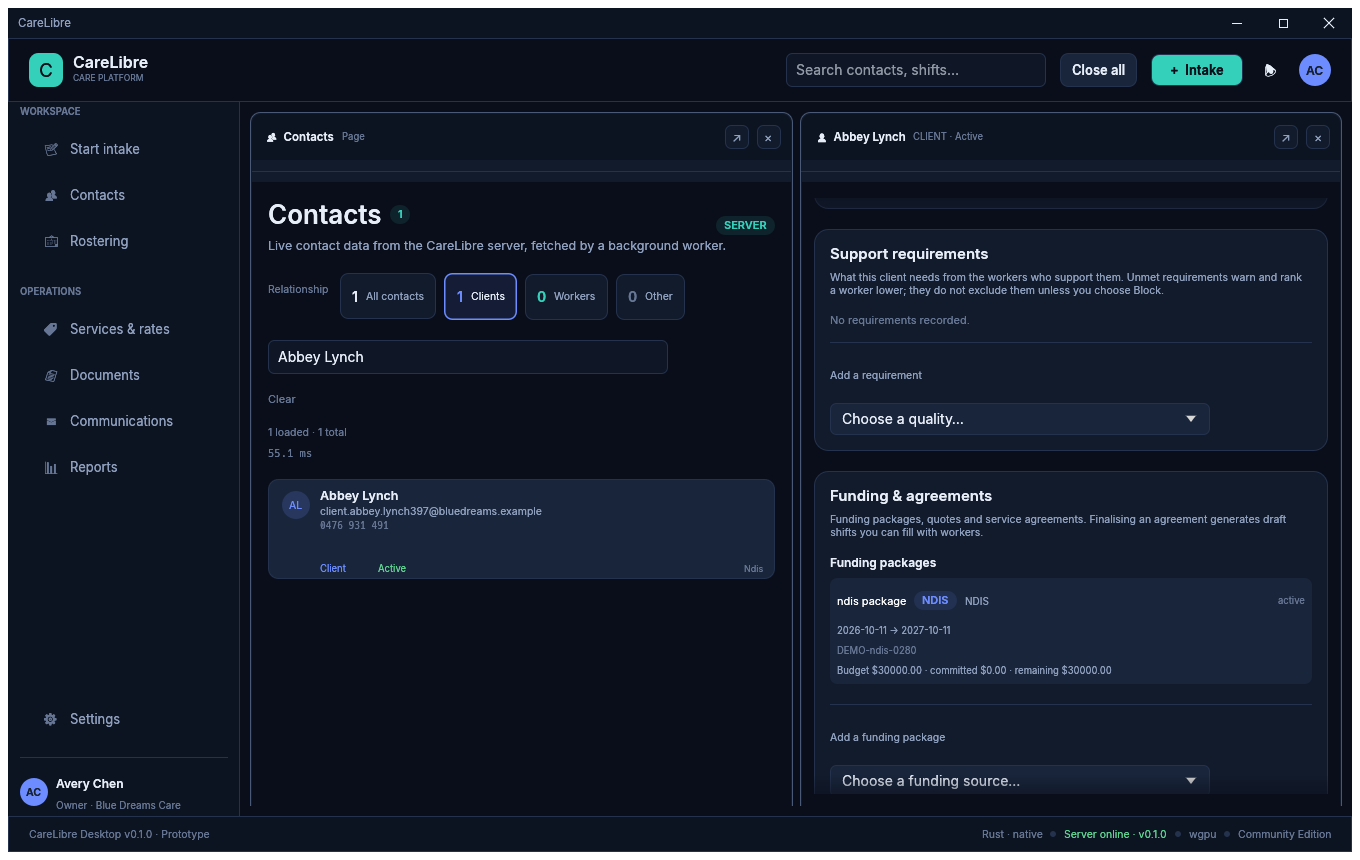
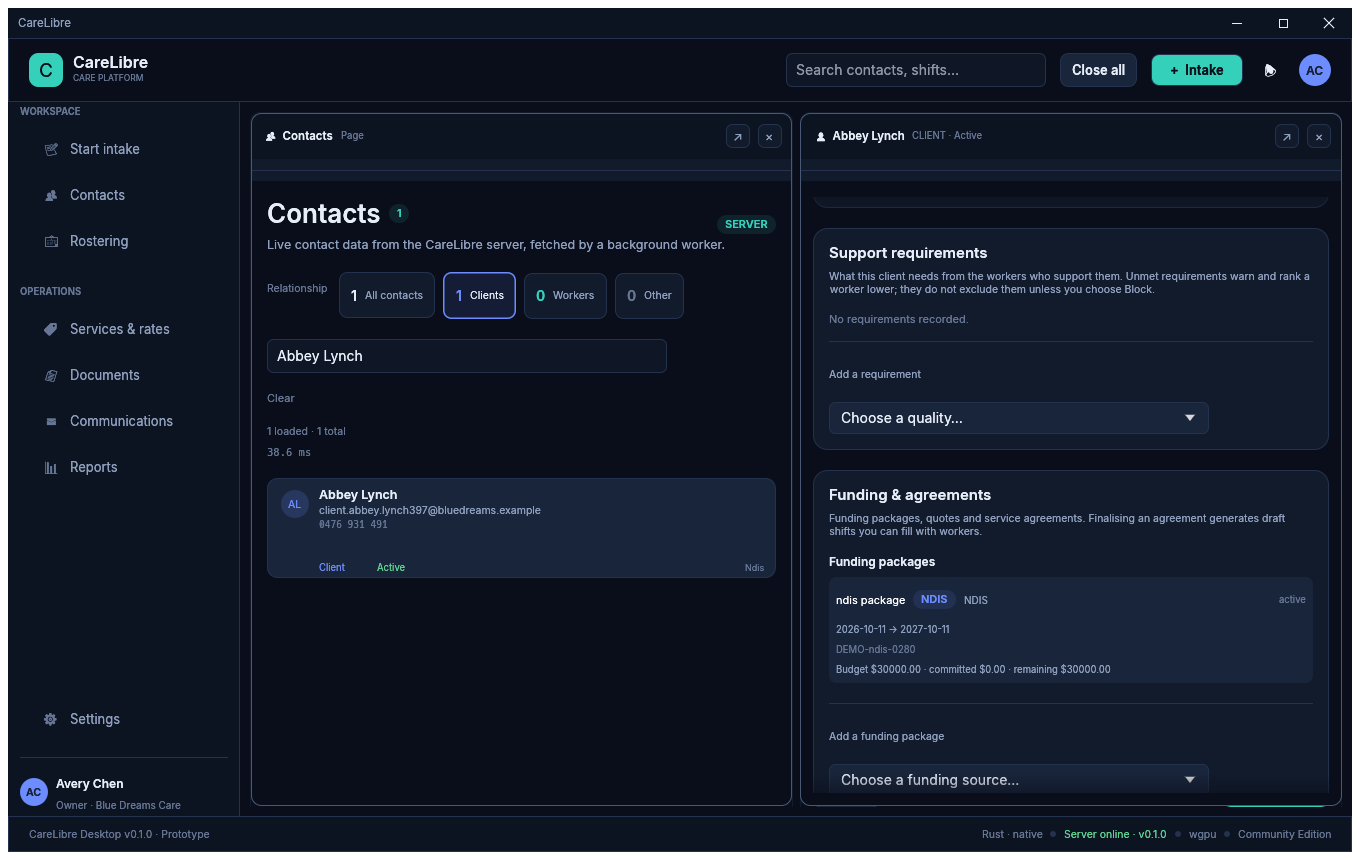
Draw column outlines as a final overlay
Paints the column border after its content with a slight inset and expanded clip rect, so the right and bottom edges and the rounded corners cannot be covered or clipped. Refreshes the screenshots.

diff --git a/src/app.rs b/src/app.rs
@@ -1994,7 +1994,7 @@ impl CareLibreApp {
                         .max_rect(rect)
                         .layout(Layout::top_down(Align::Min)),
                 );
-                column_ui.set_clip_rect(rect);
+                column_ui.set_clip_rect(rect.expand(1.0));
                 if closing {
                     column_ui.multiply_opacity(1.0 - theme::ease_in_out(close_progress));
                 }
@@ -2005,11 +2005,7 @@ impl CareLibreApp {
                     } else {
                         theme::surface()
                     })
-                    .stroke(if is_dragging {
-                        Stroke::new(2.0, theme::accent())
-                    } else {
-                        Stroke::new(1.0, theme::border_strong())
-                    })
+                    .stroke(Stroke::NONE)
                     .corner_radius(CornerRadius::same(10))
                     .inner_margin(Margin::same(1))
                     .show(&mut column_ui, |ui| {
@@ -2115,6 +2111,17 @@ impl CareLibreApp {
                             }
                         }
                     });
+
+                column_ui.painter().rect_stroke(
+                    rect.shrink(0.5),
+                    CornerRadius::same(10),
+                    if is_dragging {
+                        Stroke::new(2.0, theme::accent())
+                    } else {
+                        Stroke::new(1.0, theme::border_strong())
+                    },
+                    StrokeKind::Inside,
+                );
 
                 new_column_rects.push((
                     index,
